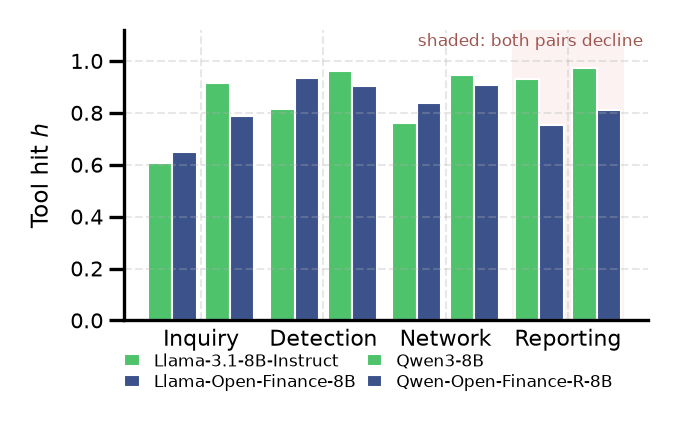
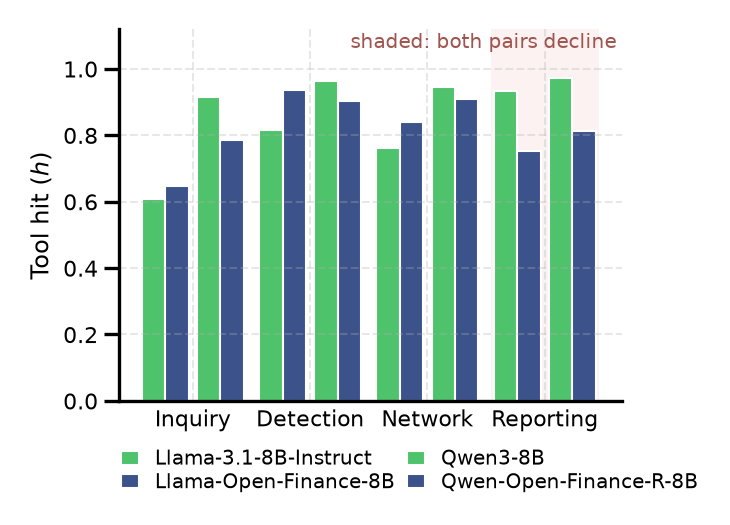
figures: the subdomain bar chart is drawn at the turn-wise line's size
The paper now sets the two side by side in one row. The bar chart was drawn for
a narrower wrapfigure, so it came out shorter than the line chart and its text
smaller. It now matches the line chart's outer size (about 175 x 126 pt) and
font sizes (ticks 5.4, axis label 5.8, legend and note 4.8), and both are placed
1:1.

Claude-Session: https://claude.ai/code/session_01SV9keZjffkrjNC4HuNDkyD

diff --git a/_experiments/scripts/RQ5_subdomain_grouped_bar.py b/_experiments/scripts/RQ5_subdomain_grouped_bar.py
@@ -40,6 +40,7 @@ _VIR = _mpl.colormaps["viridis"]
 # fig:reg_vs_anal 과 같은 두 계열 쌍(0.72 / 0.25). base 를 밝은 쪽에 두어
 # 쌍 안에서 어느 쪽이 파생 모델인지 명도로 읽히게 한다.
 BASE_COLOUR, FINE_COLOUR = _VIR(0.72), _VIR(0.25)
+FIG_H = 1.92
 
 
 def main() -> int:
@@ -54,8 +55,9 @@ def main() -> int:
     subdomains = list(spec["sub_domains"])
     declines = set(base["subdomains_where_every_pair_declines"])
 
-    # Drawn 1:1 for a 0.42\\textwidth wrapfigure, so nothing is scaled at use.
-    fig, ax = plt.subplots(figsize=(2.35, 1.58))
+    # Drawn 1:1 beside fig_turnwise_line in one row, at the same outer size and
+    # font sizes, so the two read as a pair and nothing is scaled at use.
+    fig, ax = plt.subplots(figsize=(2.40, FIG_H))
     x = np.arange(len(subdomains))
     width = 0.20
     for slot, (fine_id, pair) in enumerate(pairs.items()):
@@ -73,21 +75,21 @@ def main() -> int:
 
     ax.set_xticks(x)
     ax.set_xticklabels([SHORT.get(sd, sd) for sd in subdomains], fontsize=5.2)
-    ax.set_ylabel("Tool hit $h$", fontsize=5.6)
+    ax.set_ylabel("Tool hit ($h$)", fontsize=5.8, labelpad=2)
     ax.set_ylim(0, 1.12)
     ax.tick_params(axis="y", labelsize=5, pad=1.5)
     ax.tick_params(axis="x", length=0, pad=2)
     # Four entries as two pairs: each row is one base-and-fine-tune pair, which is
     # the comparison the bars make, and it costs half the vertical space.
-    ax.legend(fontsize=4.2, ncol=2, frameon=False, loc="lower left",
+    ax.legend(fontsize=4.8, ncol=2, frameon=False, loc="lower left",
               bbox_to_anchor=(-0.02, -0.28), handlelength=0.9,
               labelspacing=0.18, columnspacing=0.6, borderpad=0.1)
     ax.text(0.99, 0.99, "shaded: both pairs decline", transform=ax.transAxes,
-            ha="right", va="top", fontsize=4.2, color="#A0554F")
+            ha="right", va="top", fontsize=4.8, color="#A0554F")
     style_axes(ax)
     # style_axes sets a shared tick size; this figure is drawn small, so it keeps its own.
-    ax.tick_params(axis="y", labelsize=5, pad=1.5)
-    ax.tick_params(axis="x", labelsize=5.2, length=0, pad=2)
+    ax.tick_params(axis="y", labelsize=5.4, pad=1.5)
+    ax.tick_params(axis="x", labelsize=5.4, length=0, pad=2)
     fig.tight_layout()
     for suffix in ("pdf", "png"):
         fig.savefig(OUT_DIR / f"fig_subdomain_grouped_bar.{suffix}", dpi=300, bbox_inches="tight")
